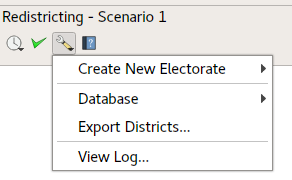
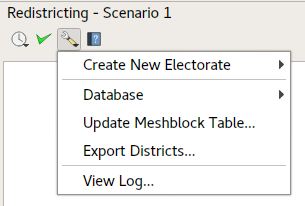
More images

Changed region(s): [[0.0, 0.0, 1.0, 1.0]]

diff --git a/documentation/ui_design/mockups/mock_dock.py b/documentation/ui_design/mockups/mock_dock.py
@@ -113,6 +113,9 @@ import_master_action.triggered.connect(import_database)
 master_db_menu.addAction(import_master_action )
 options_menu.addMenu(master_db_menu)
 
+meshblock_action = QAction('Update Meshblock Table...')
+options_menu.addAction(meshblock_action )
+
 export_action = QAction('Export Districts...')
 options_menu.addAction(export_action)
 
